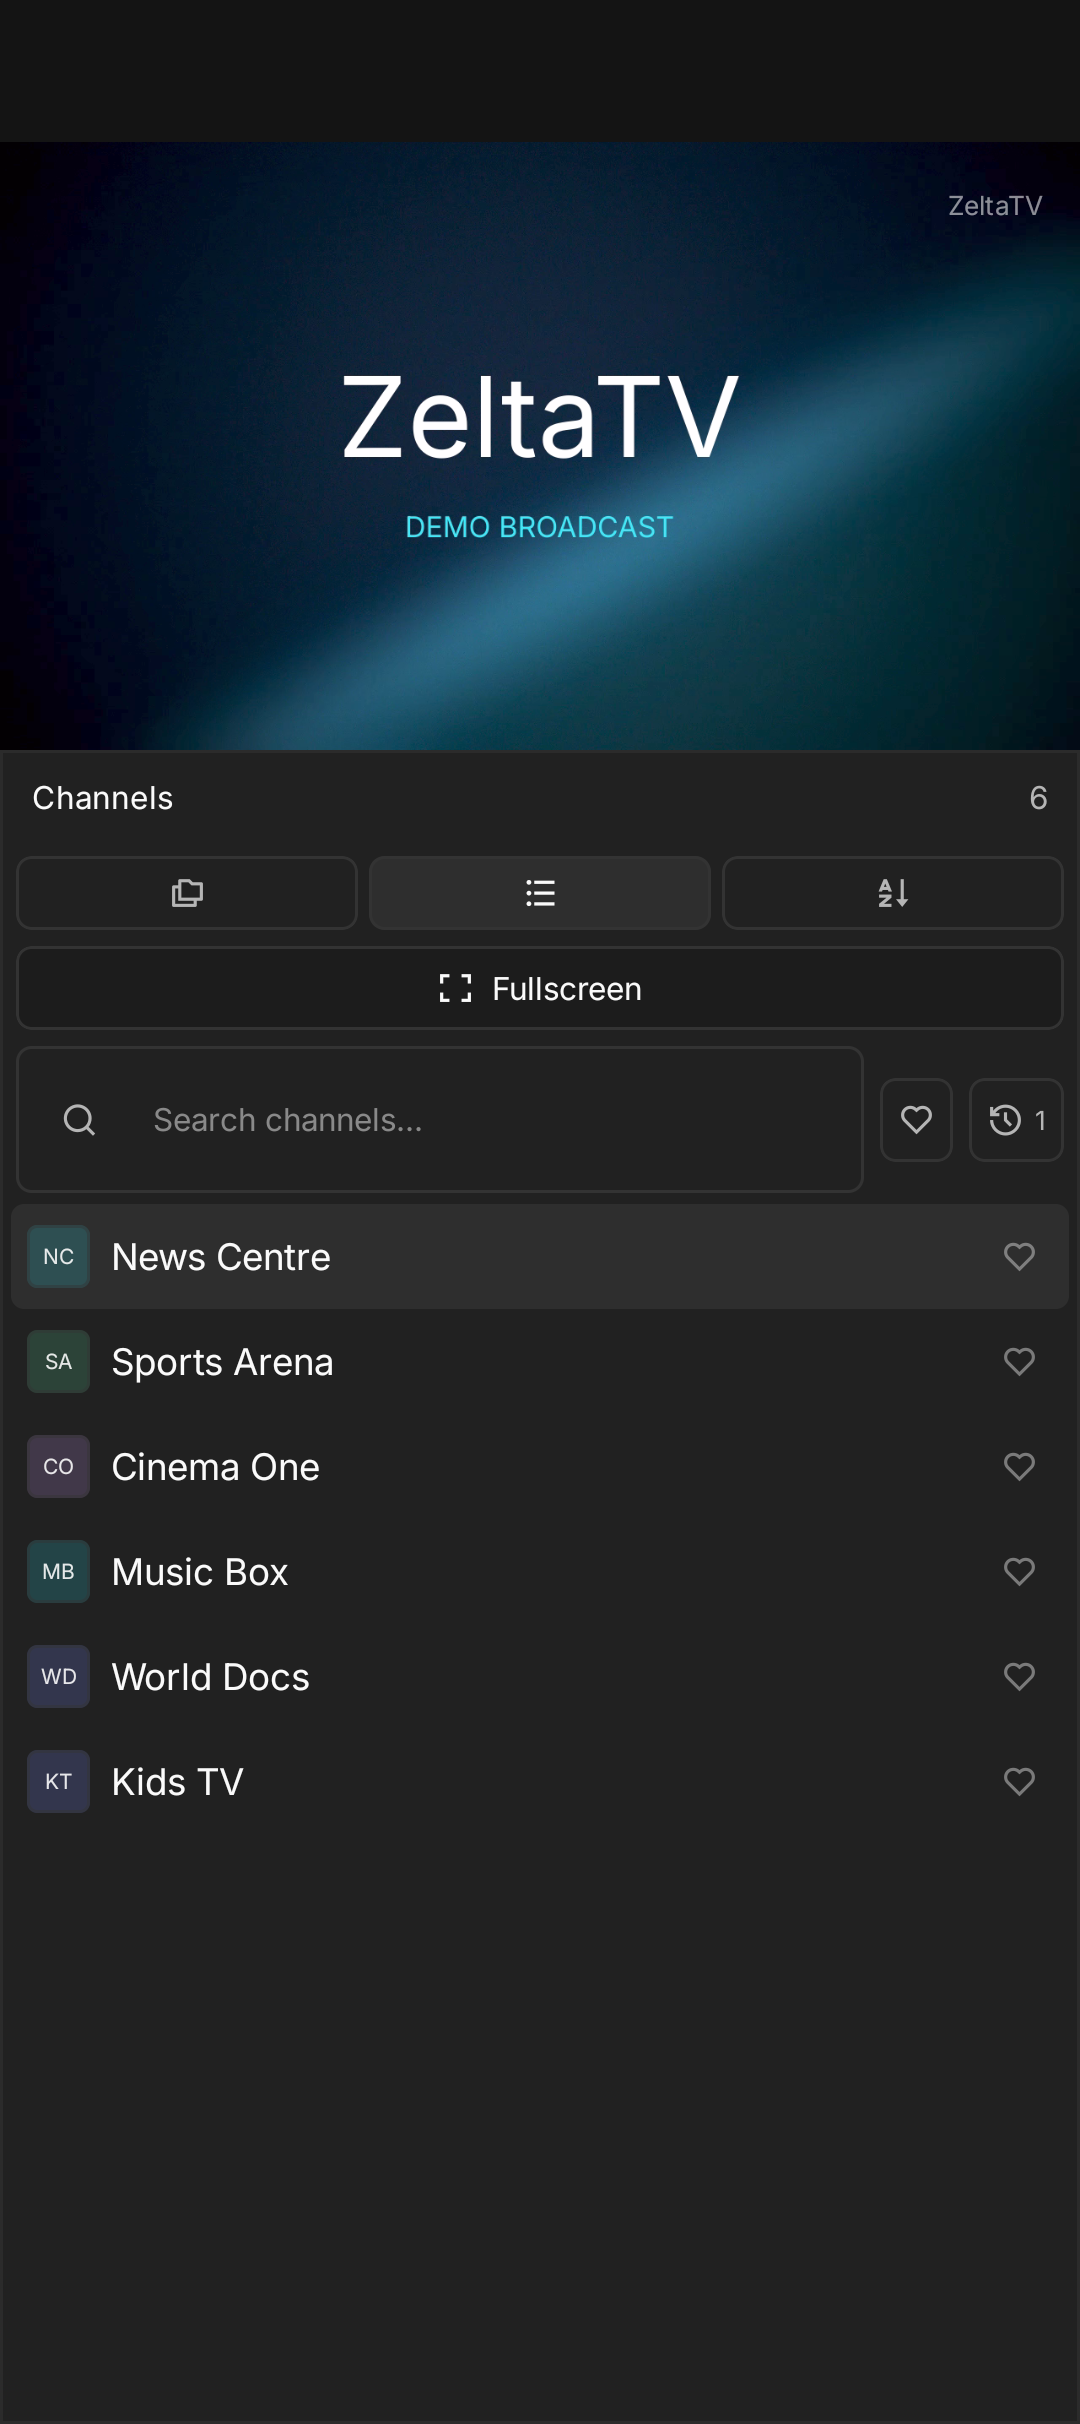
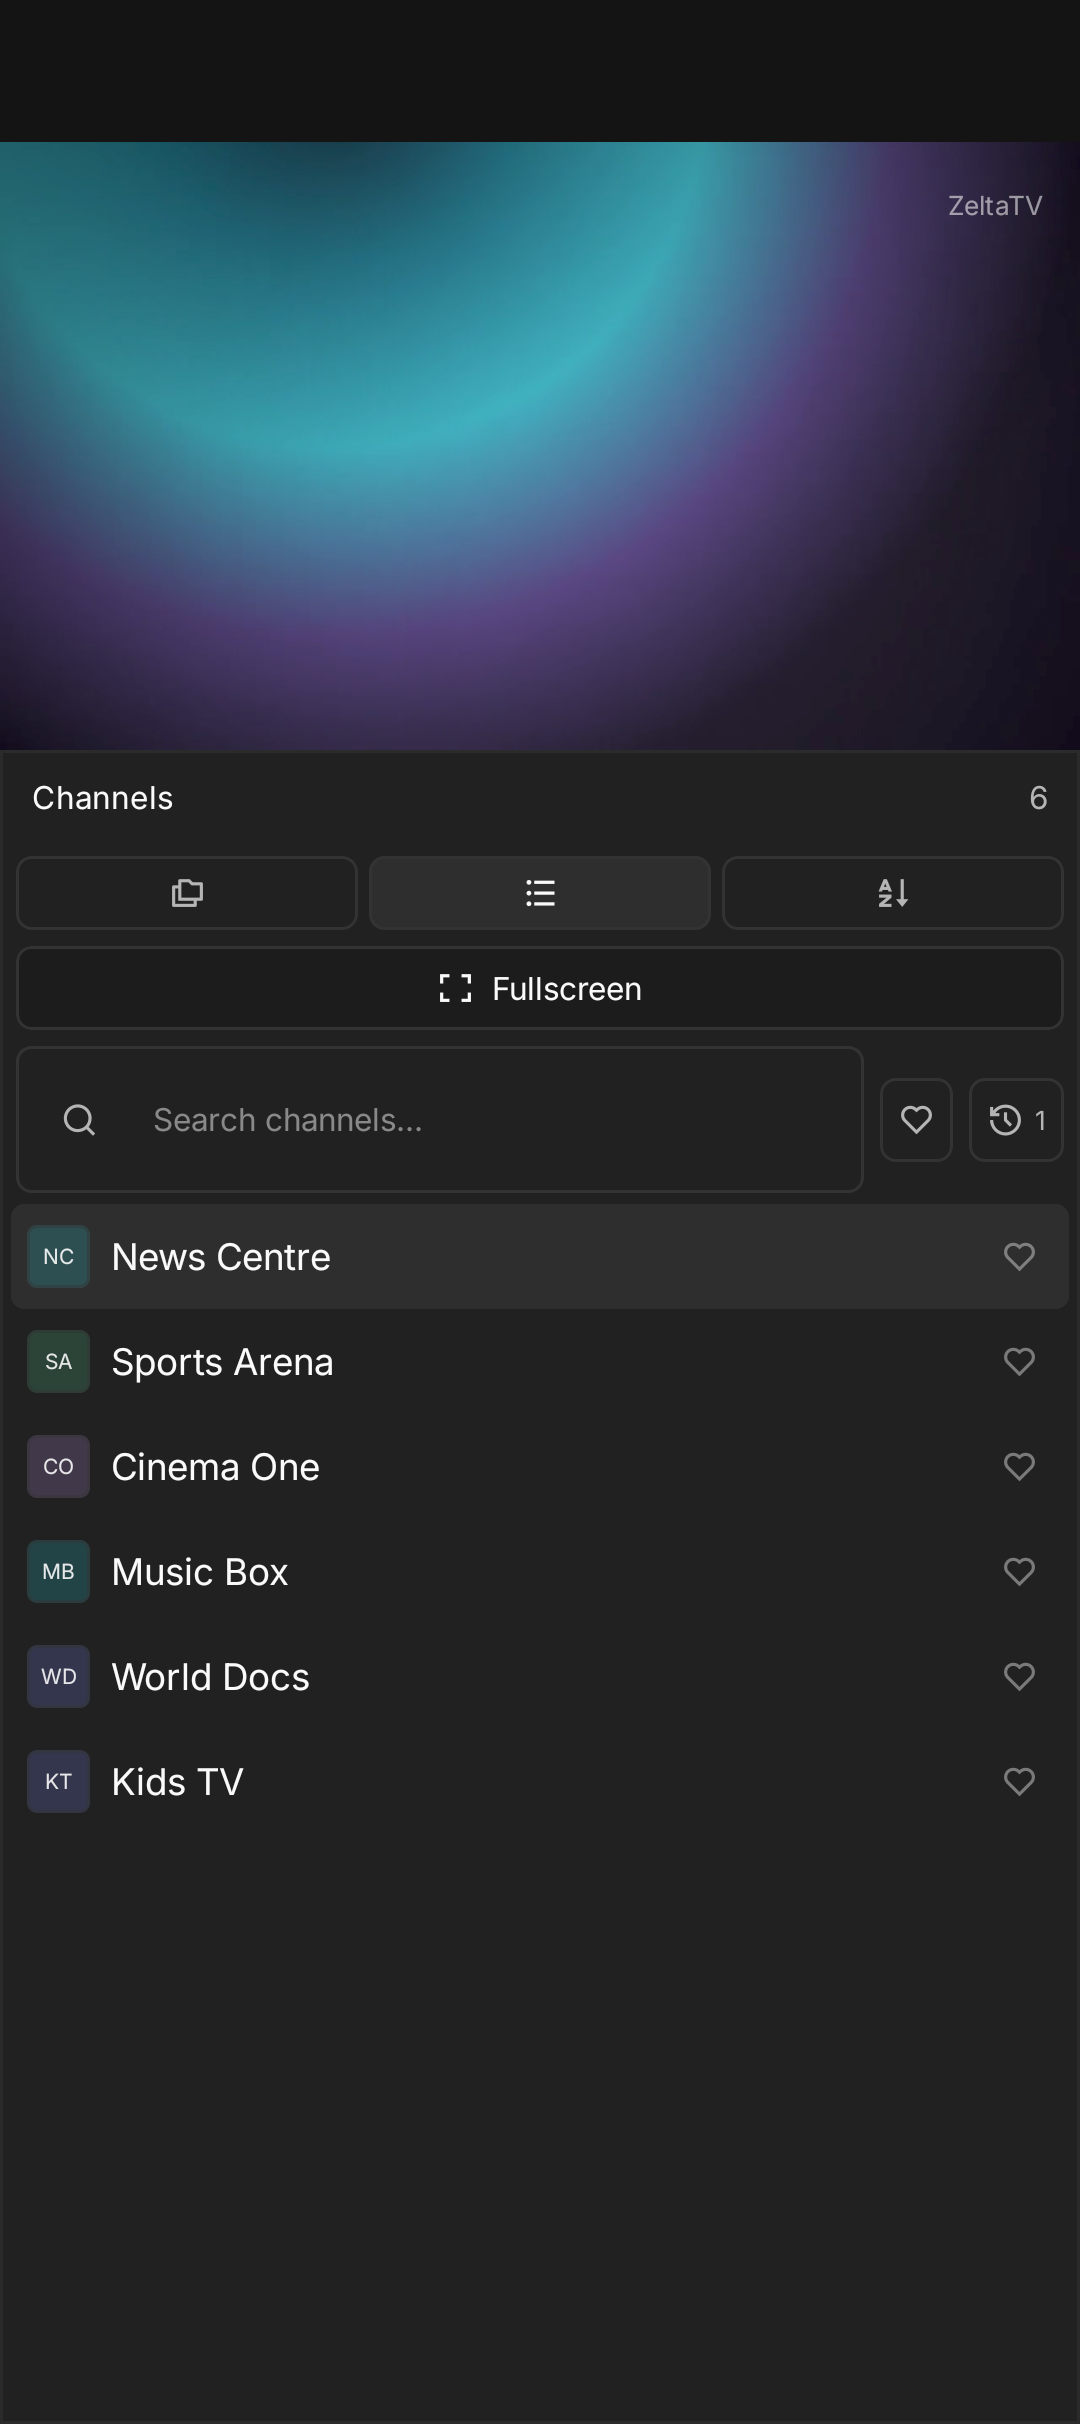
Refresh the screenshots with real video frames

Changed region(s): [[0.0, 0.0309, 1.0, 0.3094]]

diff --git a/README.md b/README.md
@@ -16,7 +16,7 @@ debug-signed and intended for sideloading.
 ## Photo Gallery
 
 <p align="center">
-  <img src="docs/images/screenshots/06-player-landscape.png" alt="ZeltaTV Android playing a channel in landscape with touch controls" width="100%">
+  <img src="docs/images/screenshots/06-player-landscape.png" alt="ZeltaTV Android playing a channel full-bleed in landscape" width="100%">
 </p>
 
 | | |
